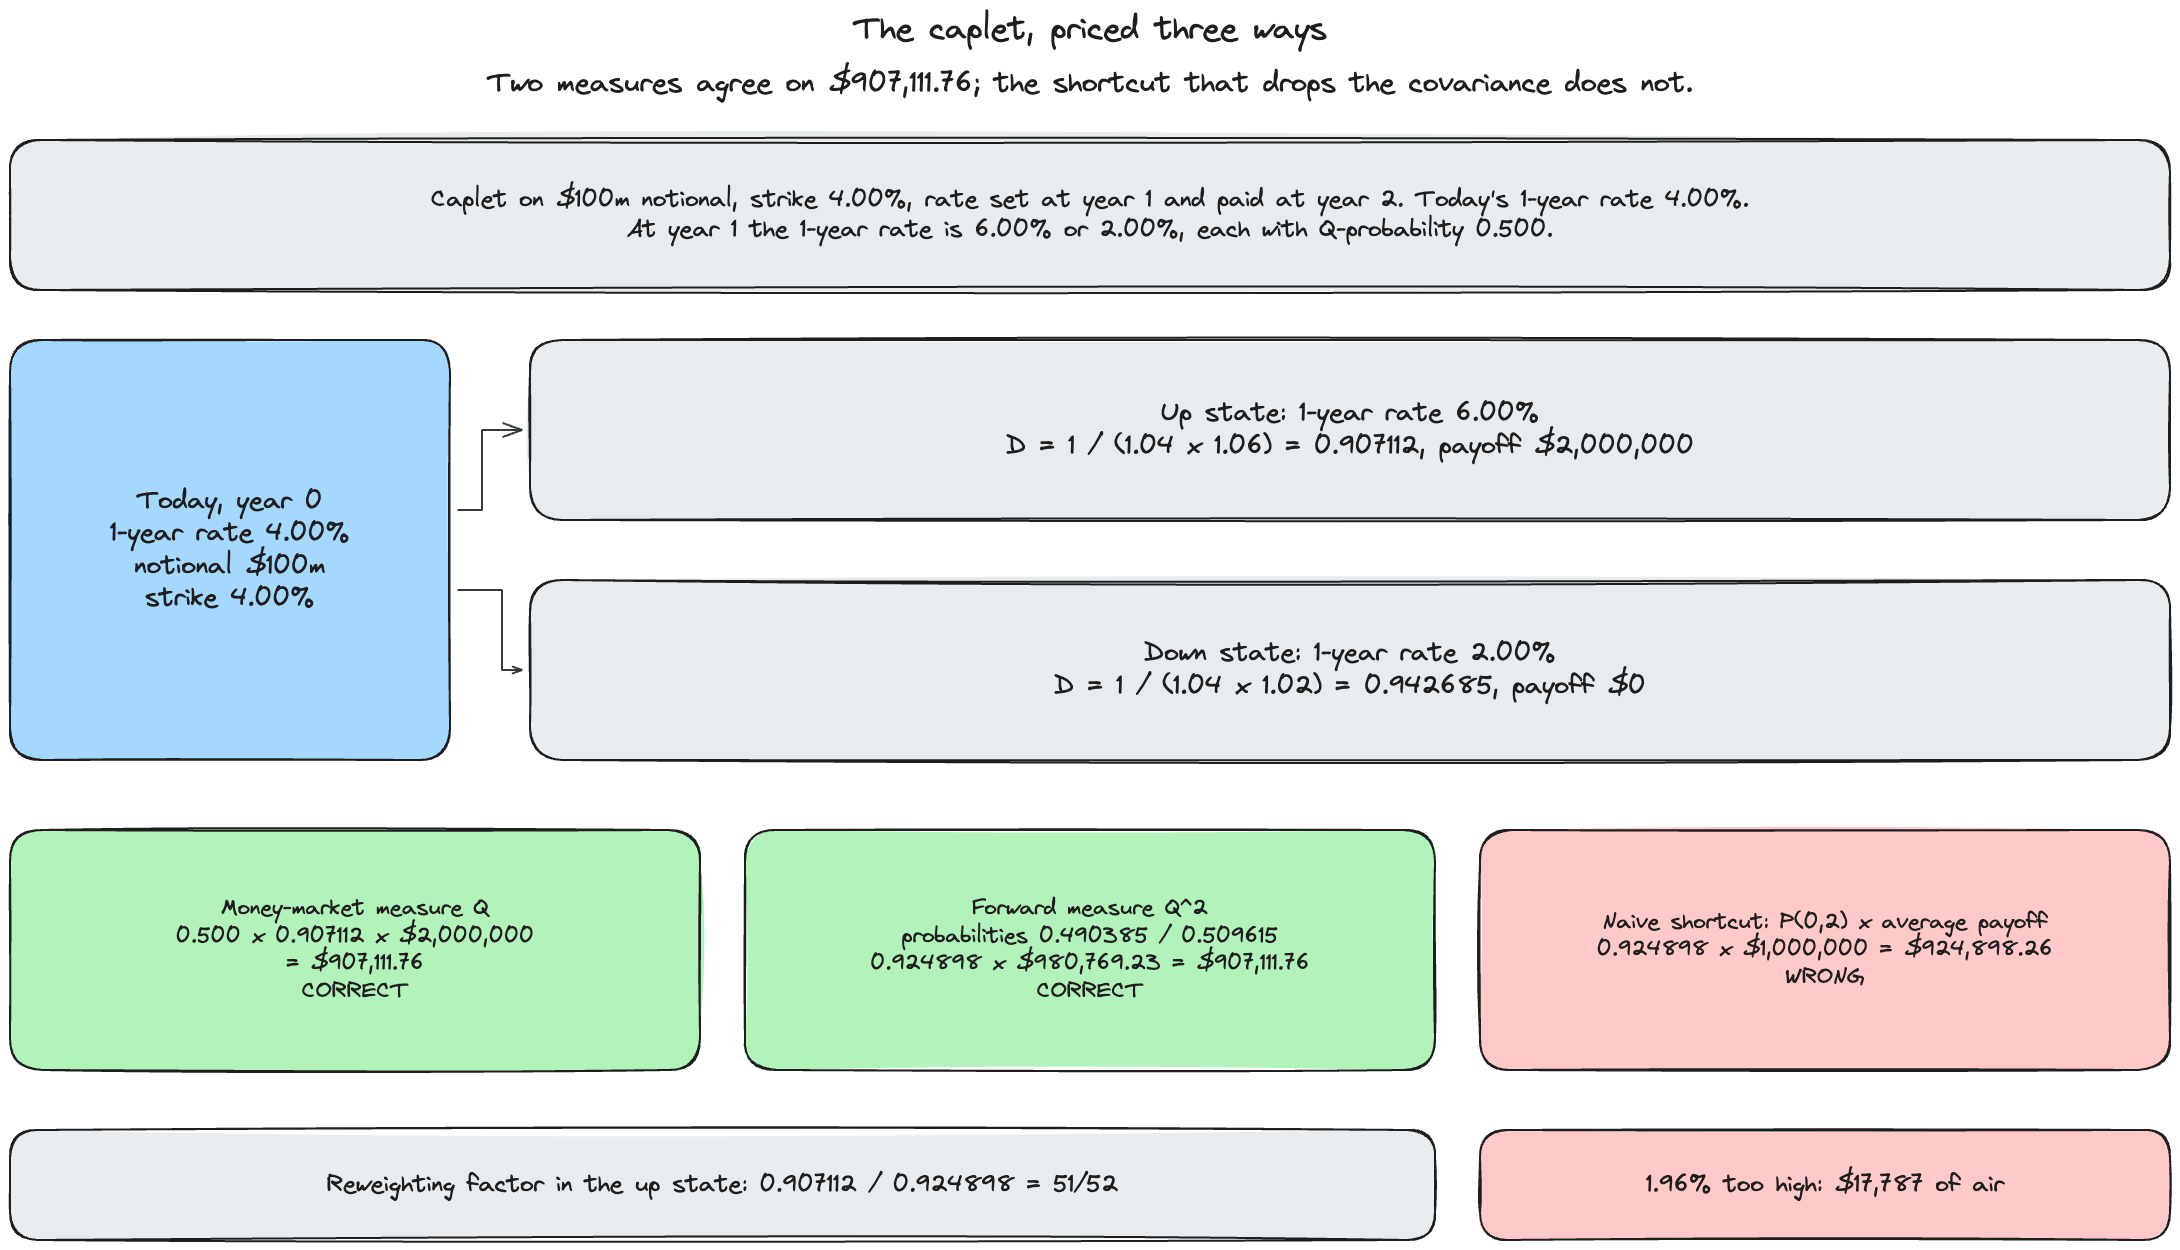
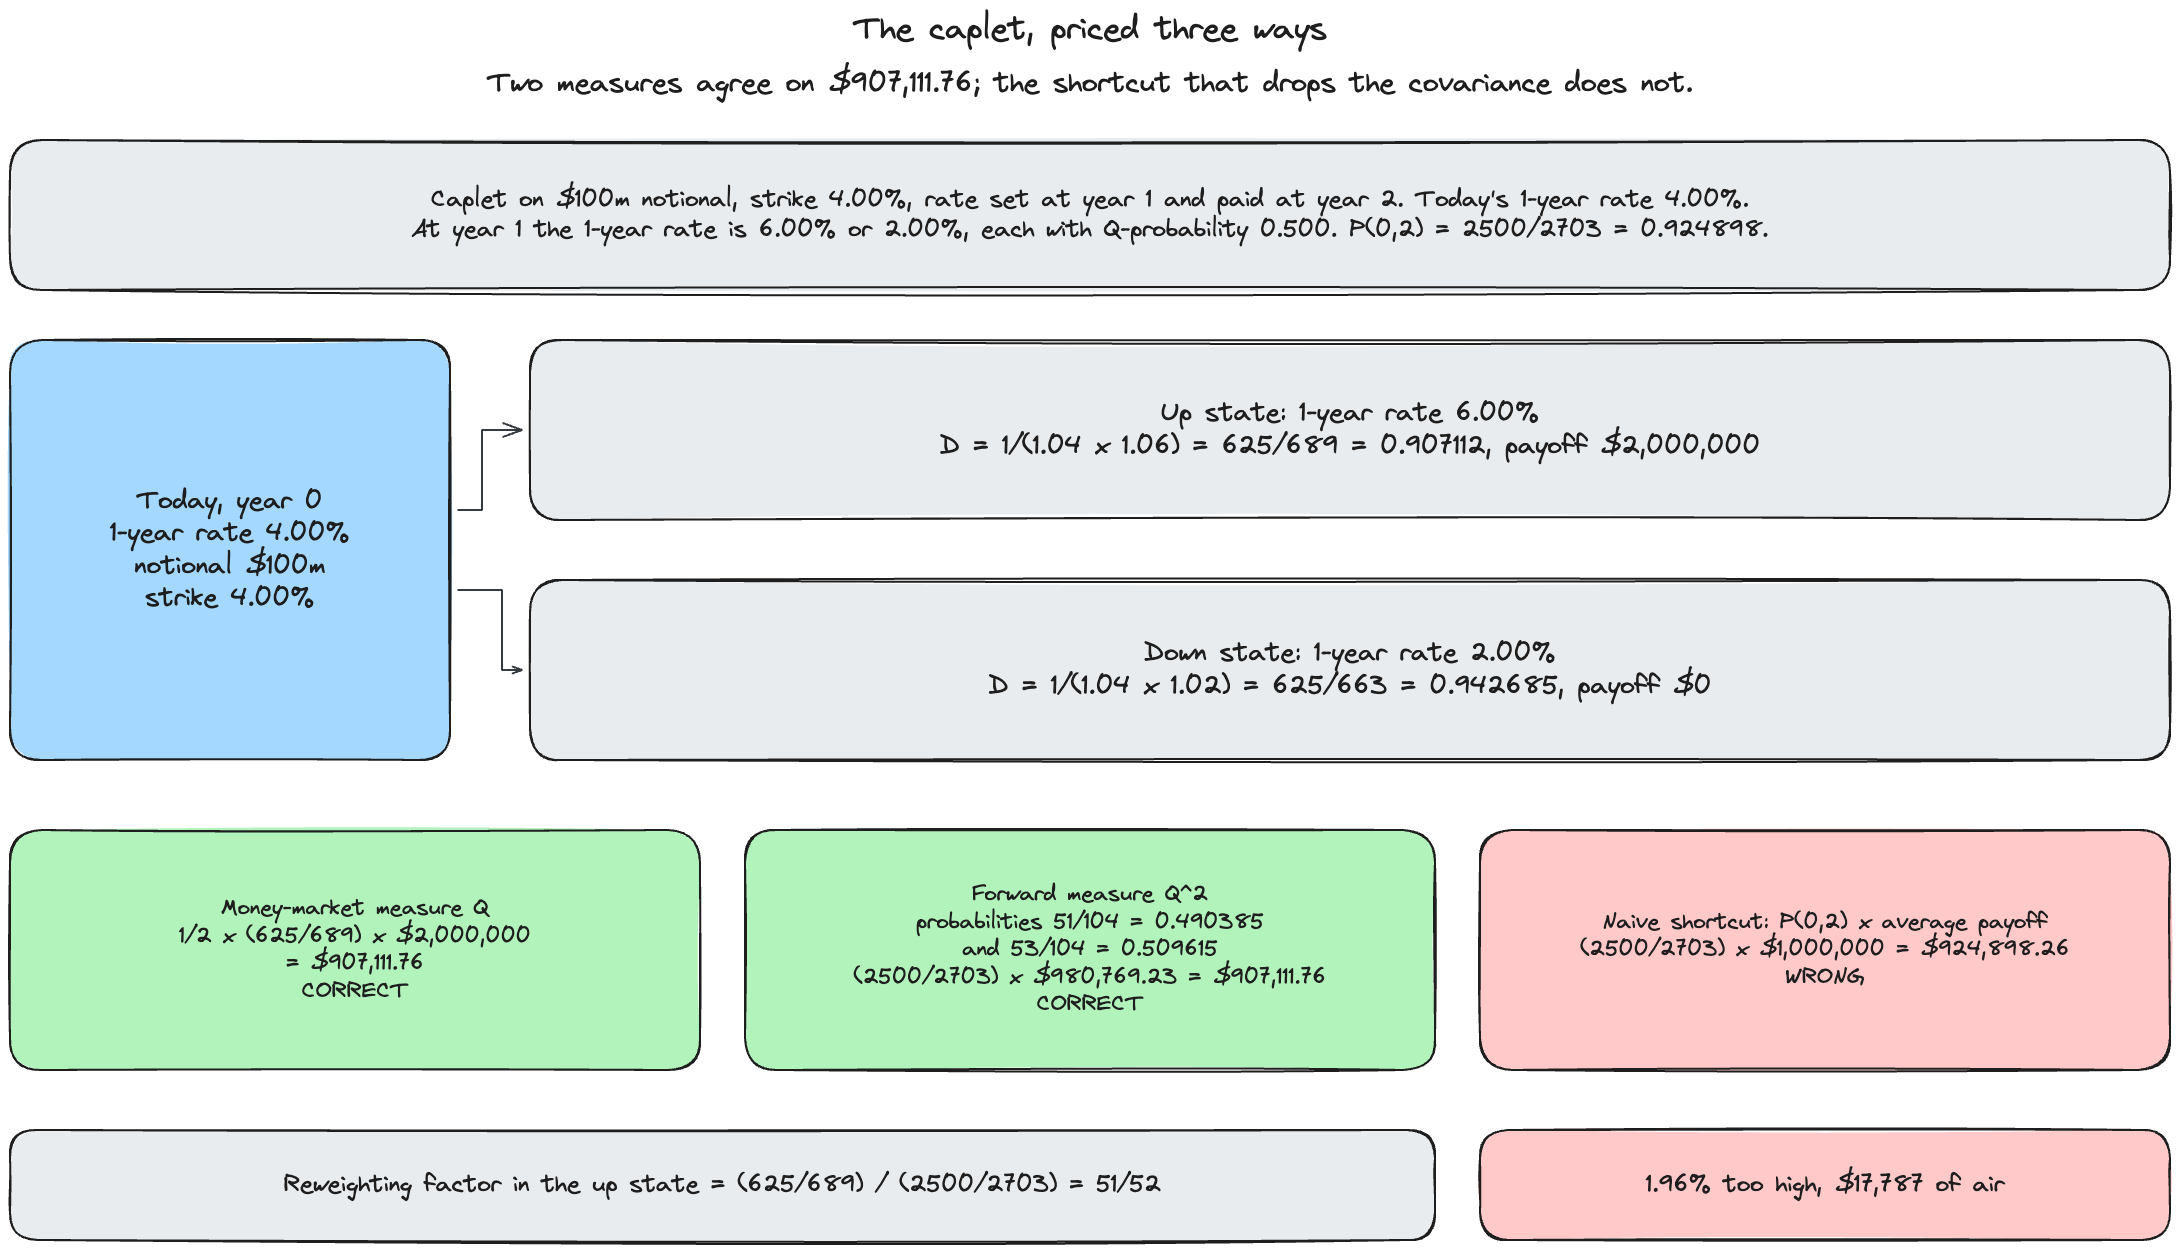
Brief: alt text is where the bare dollar hides
A wave-5 post carried bare $45, $400k and $255,000 in three image alt texts. A
single unpaired dollar there is invisible to any checker that looks for matched
spans, so it survives every sweep until a reader sees it. Also picking up a
re-rendered numeraire figure.

diff --git a/.claude/plans/senior-quant-math-brief.md b/.claude/plans/senior-quant-math-brief.md
@@ -91,9 +91,11 @@ These four have cost the corpus hundreds of fixes. They are not style choices.
    dropped by the site renderer and the reader sees literal dollar signs. Write
    `${1/n}$`. Any span whose content begins with a digit and contains no
    `\`, `{`, `}`, `^` or `_` must be brace-wrapped.
-2. **Escape currency in prose**: `\$50m`, `\$100k`, never a bare `$50m`. A bare
-   currency dollar pairs with the next real formula's delimiter and swallows the
-   sentence between them.
+2. **Escape currency everywhere, including image alt text**: `\$50m`, `\$100k`,
+   never a bare `$50m`. A bare currency dollar pairs with the next real formula's
+   delimiter and swallows the sentence between them. Alt text is the easy one to
+   forget, and a single unpaired dollar there is invisible to any checker that looks
+   for matched spans, so it survives every sweep until a reader sees it.
 3. **Display math needs blank lines either side.** A `$$...$$` block jammed against
    prose, or inside a list item without its own block, is folded into the paragraph
    and ships as literal source. Inside a numbered list, indent the block to the
